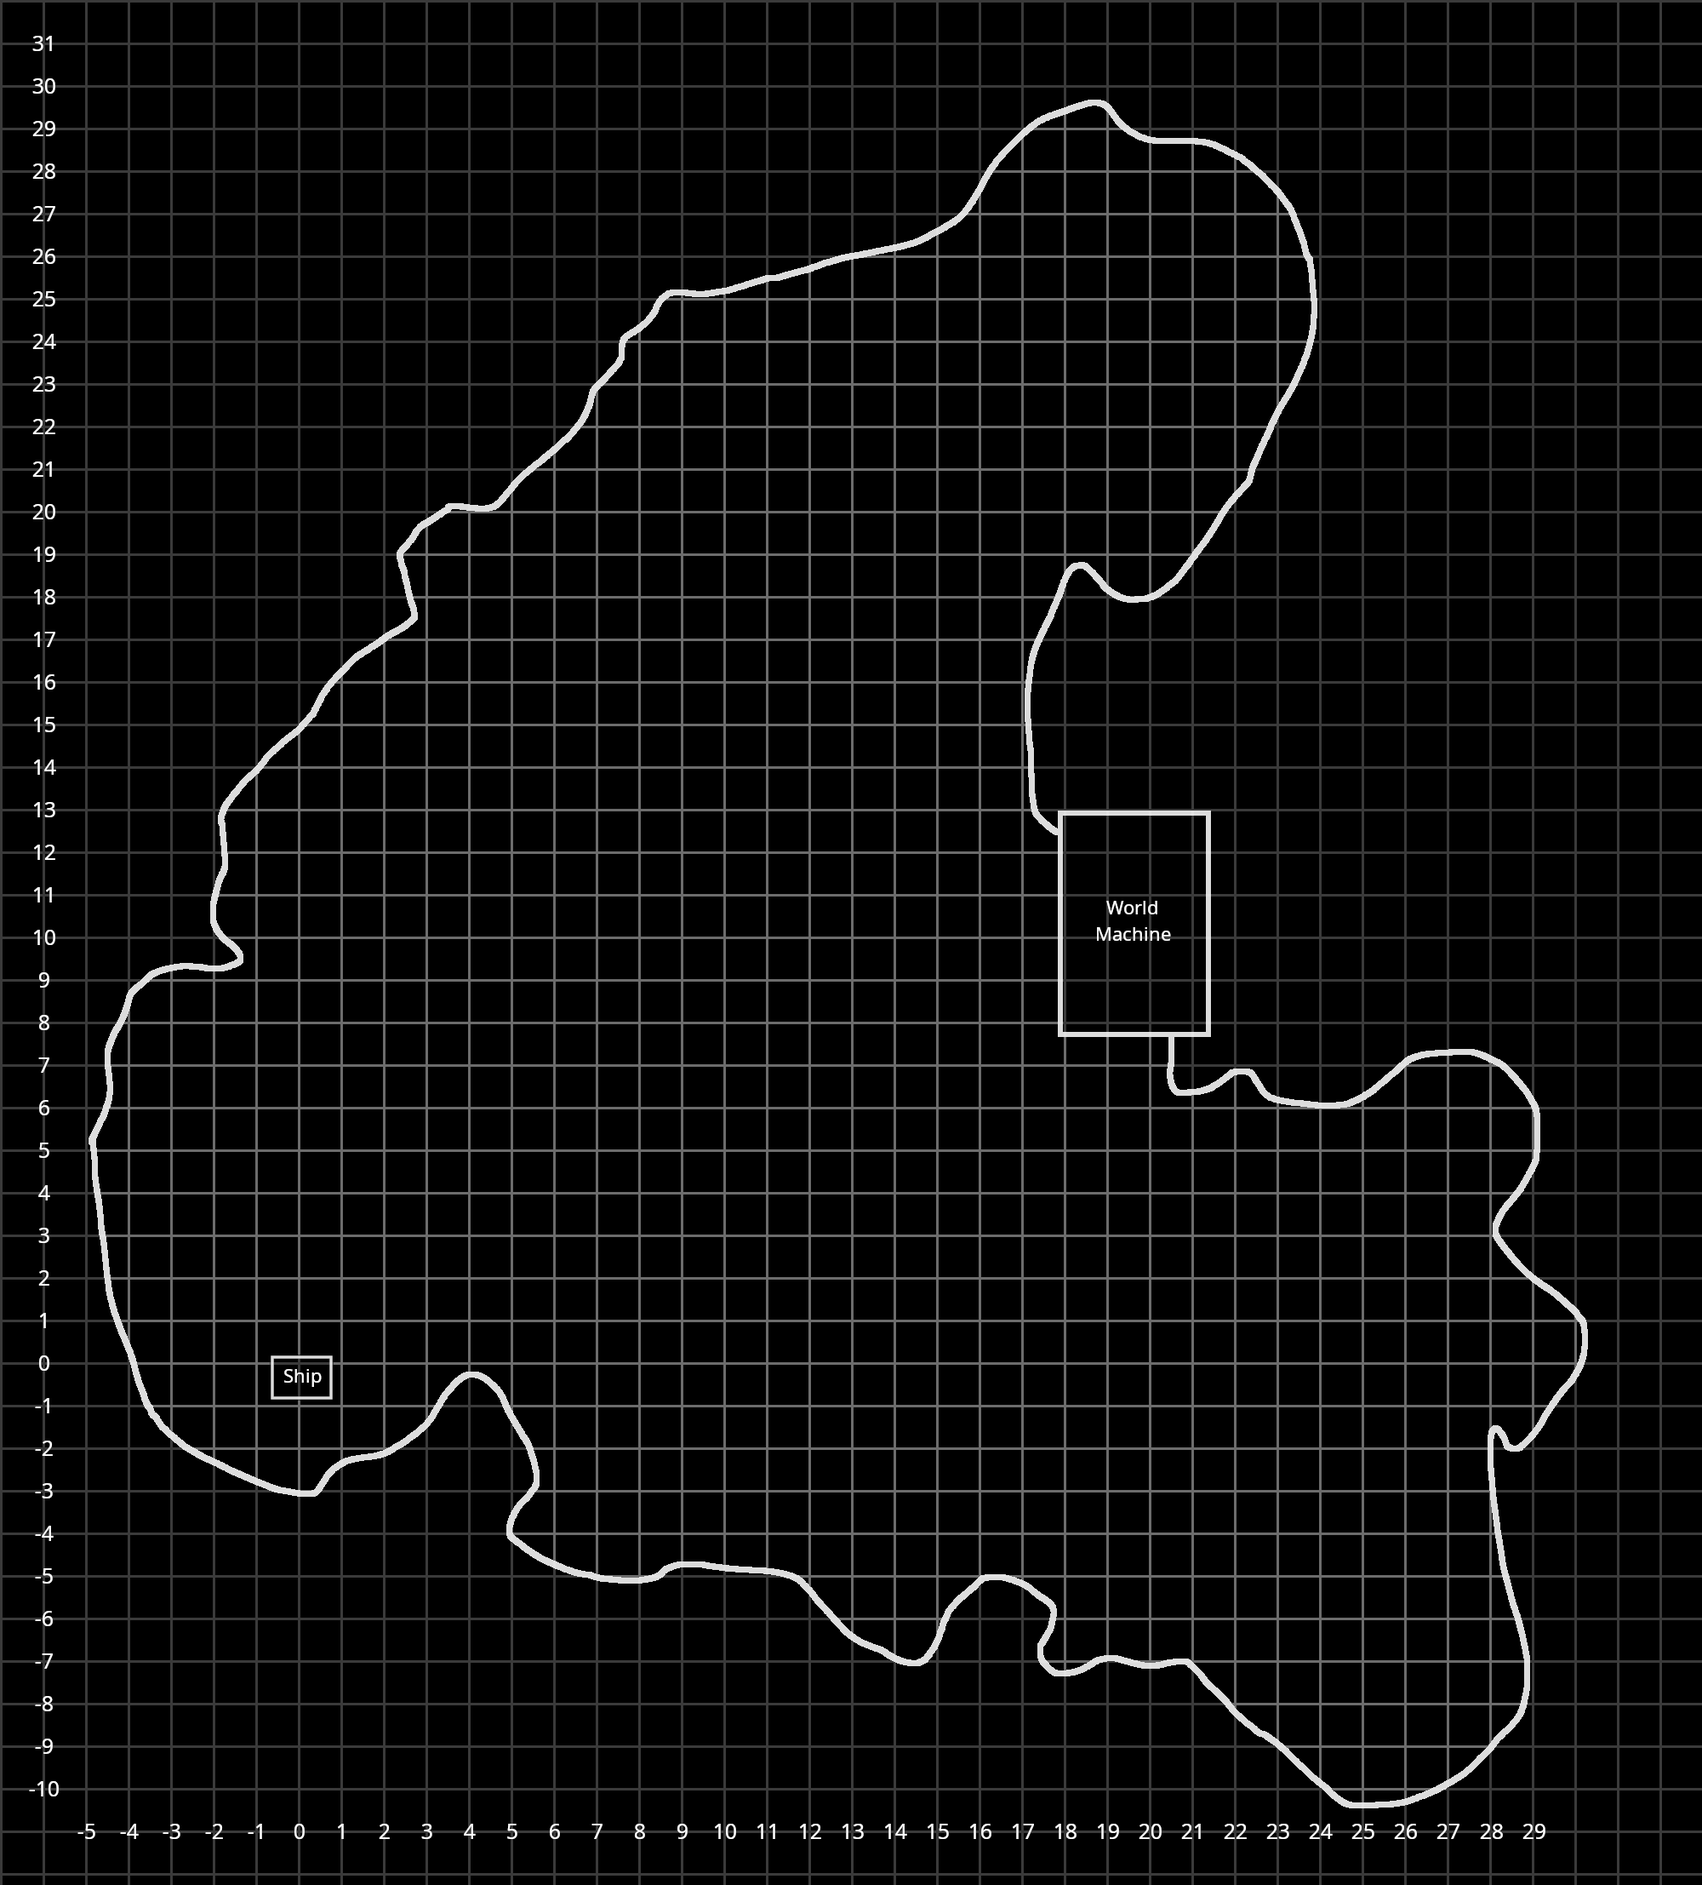
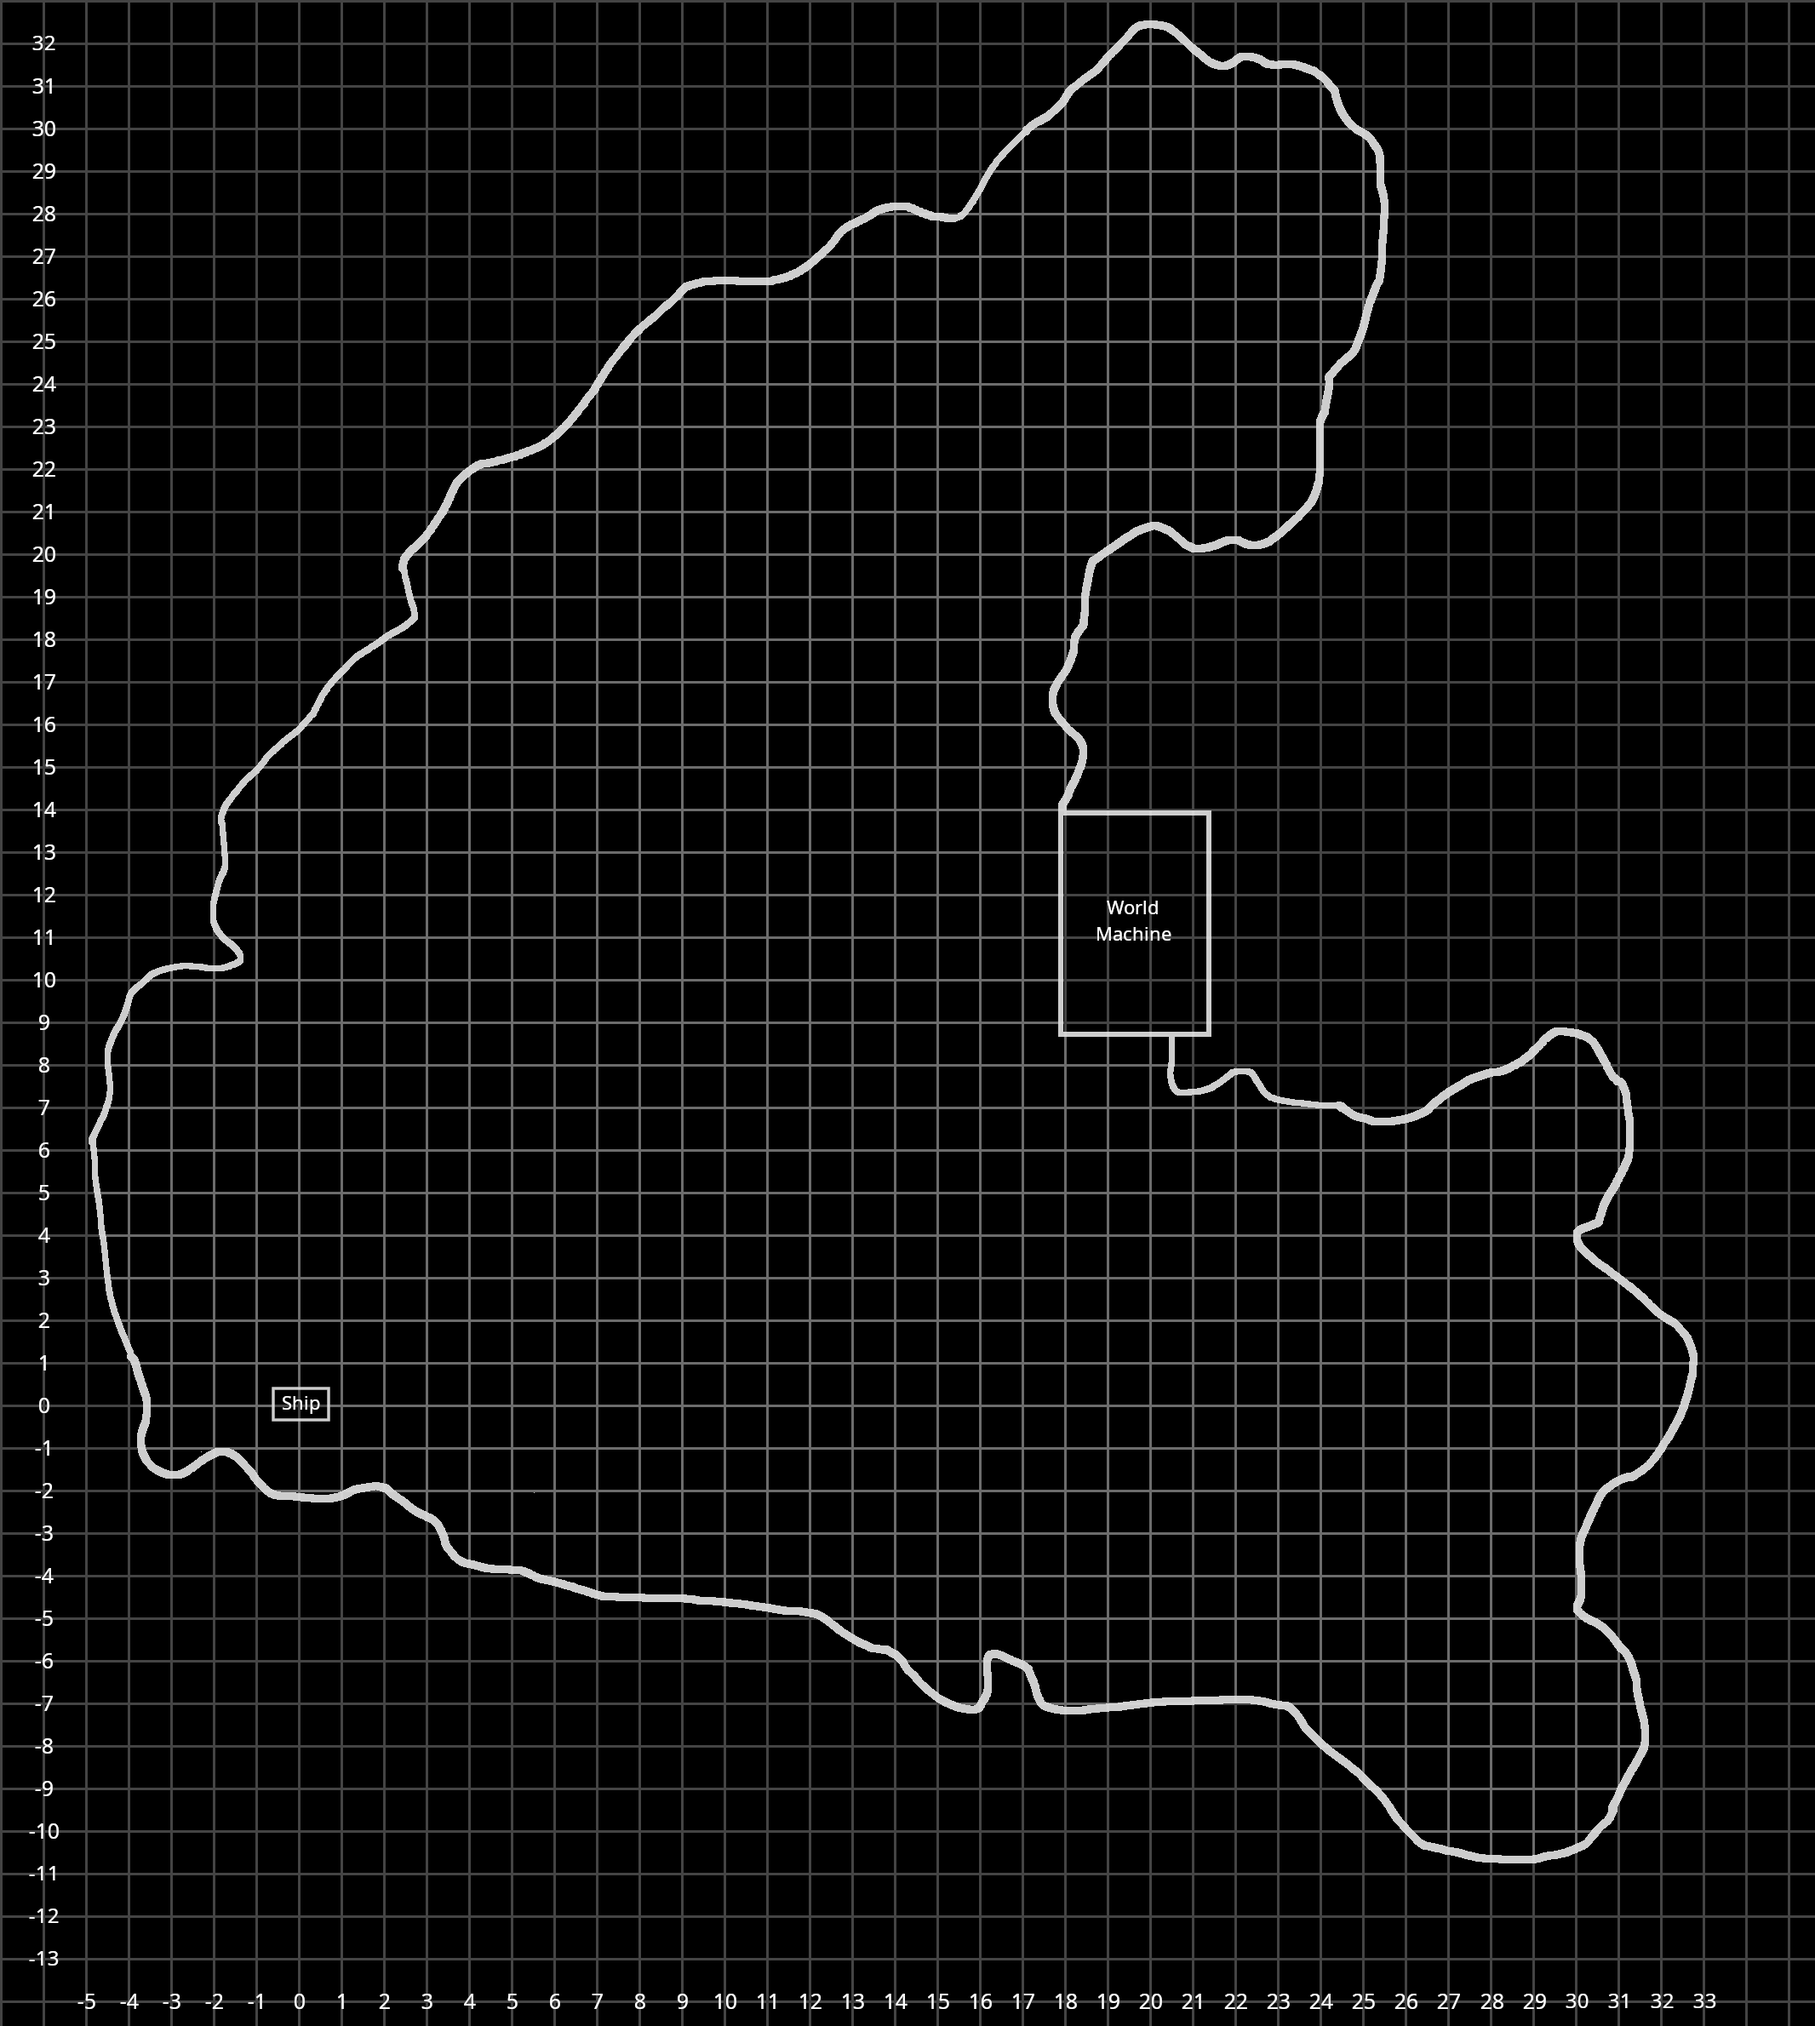
Changed map zoom and moved the cursor grid position display to the sidebar.
Also supports loading a detailed game map.

Changed region(s): [[0.0, 0.0, 1.0, 1.0]]

diff --git a/map_builder/static/style.css b/map_builder/static/style.css
@@ -27,7 +27,7 @@ body.dark-mode {
 header {
     background: linear-gradient(135deg, #667eea 0%, #764ba2 100%);
     color: white;
-    padding: 30px 20px;
+    padding: 15px 20px;
     border-radius: 8px;
     margin-bottom: 20px;
     box-shadow: 0 4px 6px rgba(0, 0, 0, 0.1);
@@ -75,8 +75,8 @@ header p {
 
 .map-container img {
     display: block;
-    width: 100%;
-    height: 100%;
+    /* width: 100%;
+    height: 100%; */
     object-fit: contain;
 }
 
@@ -140,7 +140,8 @@ header p {
     margin-top: 15px;
     font-size: 14px;
     color: #b0b0b0;
-    display: flex;
+    display: block;
+    text-align: center;
     gap: 20px;
     font-family: monospace;
 }

diff --git a/map_builder/templates/index.html b/map_builder/templates/index.html
@@ -19,13 +19,14 @@
                     <img id="mapImage" src="{{ url_for('map_image') }}" alt="Starrupture Map">
                     <div id="pinsOverlay" class="pins-overlay"></div>
                 </div>
+            </div>
+
+            
+            <div class="sidebar">
                 <div class="coordinates-display">
                     <span>Grid X: <span id="coordX">-</span></span>
                     <span>Grid Y: <span id="coordY">-</span></span>
                 </div>
-            </div>
-
-            <div class="sidebar">
                 <div class="panel">
                     <h2>Add Pin</h2>
                     <div class="form-group">

diff --git a/map_builder/static/app.js b/map_builder/static/app.js
@@ -22,7 +22,7 @@ let selectedPinId = null;
 
 // Grid configuration
 const GRID_ORIGIN_X = 350;  // Pixel X coordinate of grid origin
-const GRID_ORIGIN_Y = 1600; // Pixel Y coordinate of grid origin
+const GRID_ORIGIN_Y = 1650; // Pixel Y coordinate of grid origin
 const GRID_SPACING = 50;    // Pixels between grid lines
 
 // Convert pixel coordinates to grid coordinates

diff --git a/map_builder/app.py b/map_builder/app.py
@@ -11,6 +11,10 @@ app = Flask(__name__)
 # Configuration
 PINS_FILE = 'pins_data.json'
 MAP_IMAGE = 'starrupture_map_outline.png'
+FILLED_MAP_IMAGE = 'starrupture_map_filled.png'
+
+def get_map_image_filename() -> str:
+    return FILLED_MAP_IMAGE if os.path.exists(FILLED_MAP_IMAGE) else MAP_IMAGE
 
 # Initialize pins storage
 def load_pins():
@@ -34,7 +38,7 @@ def index():
 @app.route('/map-image')
 def map_image():
     """Serve the map image."""
-    return send_file(MAP_IMAGE, mimetype='image/png')
+    return send_file(get_map_image_filename(), mimetype='image/png')
 
 @app.route('/api/pins', methods=['GET'])
 def get_pins():

diff --git a/map_builder/README.md b/map_builder/README.md
@@ -2,12 +2,58 @@
 
 A Flask web application for managing pins on the Starrupture map with coordinate tracking.
 
-Written by CoPilot using chat prompts with the only edits I performed by hand being this paragraph.
-This was done as an exercise in using the AI to build an entire program. The map image,
-starrupture_map_outline.png, was created by me in GIMP 2. The grid was drawn using a filter and the
-grid number labels were done mostly by hand but the Y axis labels were positioned using a
-script-fu script created by a combination of DuckDuckGo and Google's AI to copy the text layer and
-move 50 pixels up.
+Originally written by CoPilot using chat prompts This was done as an exercise in using the AI to
+build an entire program. The map image, starrupture_map_outline.png, was created by me in GIMP 2.
+The grid was drawn using a filter and the grid number labels were done mostly by hand but the Y
+axis labels were positioned using a script-fu script created by a combination of DuckDuckGo and
+Google's AI to copy the text layer and move 50 pixels up. The following script was cobbled together
+by me from a few examples provided by both AIs. 
+```scheme
+(define (copy-layer-up img layer)
+    ;; When testing, if no layer selected, this script isn't called.
+    ;;(gimp-message "Moving layer")
+    (if (= layer -1)
+        (gimp-message "No active layer to move.")
+        ( let ((copied-layer (car (gimp-layer-copy layer TRUE))))
+
+                (gimp-image-insert-layer img copied-layer 0 -1)
+                ;;(gimp-message "Before")
+                (let* (
+                        (offsets (gimp-drawable-offsets copied-layer))
+                        (new-y (- (cadr offsets) 50))
+                      )
+                  (gimp-layer-set-offsets copied-layer (car offsets) new-y)
+                  (gimp-displays-flush)
+                )
+                ;;(gimp-message "Done.")
+        )
+    )
+)
+
+(script-fu-register
+ "copy-layer-up"
+ "Copy current layer up by 50 pixels"
+ "Copies the active layer and moves up by 50 pixels"
+ "Your Name"
+ "Your Name"
+ "2023"
+ ""
+ SF-IMAGE    "Image"     0  ; GIMP passes the current image here
+ SF-DRAWABLE "Drawable"  0  ; GIMP passes the active layer here
+ )
+
+(script-fu-menu-register "copy-layer-up" "<Image>/Scripts")
+```
+
+I've started manual changes to the program. Rather than refine the prompt which uses up my free
+tier allocation, I'm just making the modification to the code and layout directly.
+
+Within the game, I have cleared most of the fog of war and built a complete map image from multiple
+screenshots. I cannot publish that map as it belongs to the owners of StarRupture so I made the
+outline. If you want to use the map image from the game, you will have to build the map image
+yourself. I set my in-game map zoom to 10 steps from the bottom of the zoom control on a screen
+resolution of 1440p. Save the map as "starrupture_map_filled.png" in the same folder as "app.py"
+and the program will load that image instead of the outline.
 
 ## Features
 
